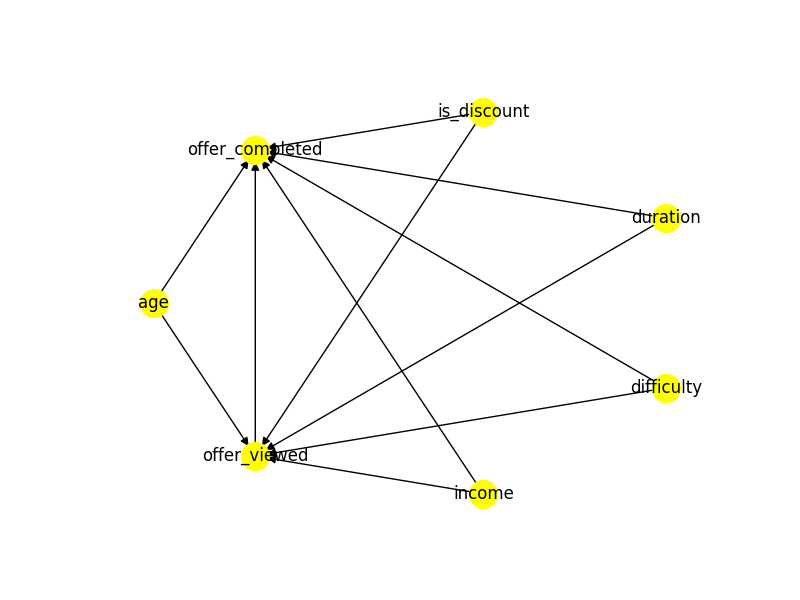
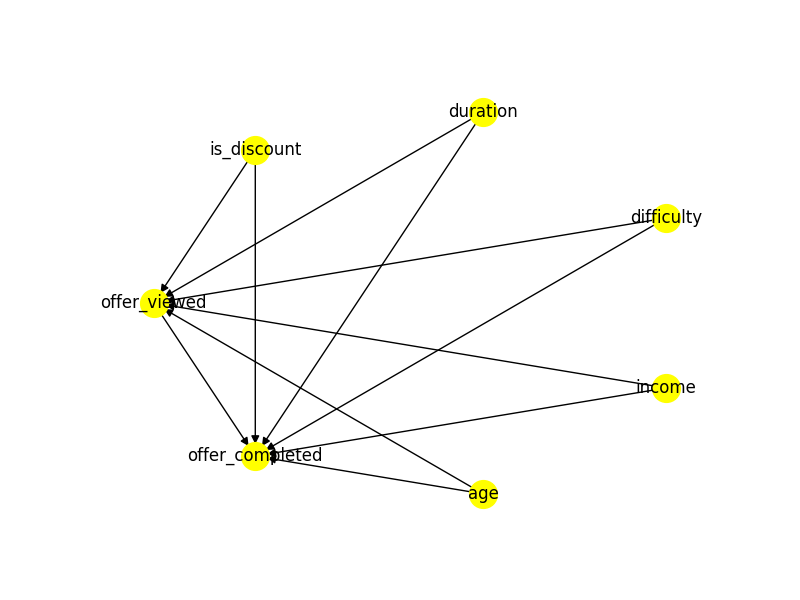
Add causal graph analysis and audit reports

diff --git a/notebooks/07_causal_graph.py b/notebooks/07_causal_graph.py
@@ -1,148 +1,228 @@
-import pandas as pd
 from pathlib import Path
+import warnings
+
+import pandas as pd
 from dowhy import CausalModel
 
-# --------------------------------------------------
-# 1. Load the prepared dataset
-# --------------------------------------------------
+warnings.filterwarnings("ignore", category=FutureWarning)
+
+# ==========================================
+# 1. PATHS
+# ==========================================
 
 BASE_DIR = Path(__file__).resolve().parent.parent
-DATA_FILE = BASE_DIR / "data" / "processed" / "causal_dataset.csv"
 
-data = pd.read_csv(DATA_FILE)
+DATA_PATH = BASE_DIR / "data" / "processed" / "causal_dataset.csv"
+FIGURES_DIR = BASE_DIR / "reports" / "figures"
+AUDIT_DIR = BASE_DIR / "reports" / "causal_audit"
 
-print("Dataset loaded:", data.shape)
+FIGURES_DIR.mkdir(parents=True, exist_ok=True)
+AUDIT_DIR.mkdir(parents=True, exist_ok=True)
 
-# --------------------------------------------------
-# 2. Select variables for causal analysis
-# --------------------------------------------------
+# ==========================================
+# 2. LOAD DATA
+# ==========================================
+
+print("Loading dataset...")
+
+if not DATA_PATH.exists():
+    raise FileNotFoundError(f"Dataset not found: {DATA_PATH}")
+
+df = pd.read_csv(DATA_PATH)
+
+print("Original dataset shape:", df.shape)
+
+# ==========================================
+# 3. PREPARE DATA
+# ==========================================
 
 required_columns = [
-    "person",
-    "offer_id",
     "offer_type",
-    "difficulty",
-    "duration",
     "offer_viewed",
     "offer_completed",
     "age",
-    "income"
+    "income",
+    "difficulty",
+    "duration",
 ]
 
-missing_columns = [
-    column for column in required_columns
-    if column not in data.columns
+missing = [col for col in required_columns if col not in df.columns]
+
+if missing:
+    raise ValueError(f"Missing columns: {missing}")
+
+# Keep BOGO and discount offers
+df = df[df["offer_type"].isin(["bogo", "discount"])].copy()
+
+# Convert required columns to numeric
+numeric_columns = [
+    "offer_viewed",
+    "offer_completed",
+    "age",
+    "income",
+    "difficulty",
+    "duration",
 ]
 
-if missing_columns:
-    raise ValueError(
-        f"Missing columns: {missing_columns}"
-    )
+for col in numeric_columns:
+    df[col] = pd.to_numeric(df[col], errors="coerce")
 
-# --------------------------------------------------
-# 3. Prepare the analysis data
-# --------------------------------------------------
+# Convert offer type to a binary variable
+df["is_discount"] = (df["offer_type"] == "discount").astype(int)
 
-analysis_data = data[
-    [
-        "offer_type",
-        "difficulty",
-        "duration",
-        "offer_viewed",
-        "offer_completed",
-        "age",
-        "income"
-    ]
+model_columns = [
+    "offer_viewed",
+    "offer_completed",
+    "age",
+    "income",
+    "difficulty",
+    "duration",
+    "is_discount",
+]
+
+df = df[model_columns].dropna()
+
+# Remove infinite values
+df = df[
+    df[model_columns].apply(
+        lambda col: col.map(lambda value: abs(value) != float("inf"))
+    ).all(axis=1)
 ].copy()
 
-# Exclude informational offers from this initial
-# reward-based completion analysis.
-analysis_data = analysis_data[
-    analysis_data["offer_type"].isin(["bogo", "discount"])
+# Validate binary variables
+df = df[
+    df["offer_viewed"].isin([0, 1])
+    & df["offer_completed"].isin([0, 1])
 ].copy()
 
-# Encode offer type as a binary variable:
-# 1 = discount, 0 = BOGO
-analysis_data["is_discount"] = (
-    analysis_data["offer_type"] == "discount"
-).astype(int)
+if df.empty:
+    raise ValueError("No valid data remains after preprocessing.")
 
-# Remove rows missing required analysis values.
-analysis_data = analysis_data.dropna(
-    subset=[
-        "difficulty",
-        "duration",
-        "offer_viewed",
-        "offer_completed",
-        "age",
-        "income"
-    ]
-)
+if df["offer_viewed"].nunique() != 2:
+    raise ValueError("offer_viewed must contain both 0 and 1.")
 
-print("Analysis dataset:", analysis_data.shape)
+print("Prepared dataset shape:", df.shape)
 
-# --------------------------------------------------
-# 4. Define the causal graph
-# --------------------------------------------------
+# ==========================================
+# 4. CREATE CAUSAL MODEL
+# ==========================================
 
-causal_graph = """
-digraph {
-    age -> offer_viewed;
-    income -> offer_viewed;
-    difficulty -> offer_viewed;
-    duration -> offer_viewed;
-    is_discount -> offer_viewed;
-
-    age -> offer_completed;
-    income -> offer_completed;
-    difficulty -> offer_completed;
-    duration -> offer_completed;
-    is_discount -> offer_completed;
-
-    offer_viewed -> offer_completed;
-}
-"""
-
-# --------------------------------------------------
-# 5. Build the DoWhy causal model
-# --------------------------------------------------
+print("\nCreating causal model...")
 
 model = CausalModel(
-    data=analysis_data,
+    data=df,
     treatment="offer_viewed",
     outcome="offer_completed",
-    graph=causal_graph
+    common_causes=[
+        "age",
+        "income",
+        "difficulty",
+        "duration",
+        "is_discount",
+    ],
 )
 
-print("\nCausal model created successfully!")
+# ==========================================
+# 5. IDENTIFY EFFECT
+# ==========================================
 
-# --------------------------------------------------
-# 6. Identify the causal effect
-# --------------------------------------------------
+print("\nIdentifying causal effect...")
 
 estimand = model.identify_effect()
-
-print("\nIdentified estimand:")
 print(estimand)
 
-# --------------------------------------------------
-# 7. Save a graph image if Graphviz is available
-# --------------------------------------------------
+# ==========================================
+# 6. ESTIMATE EFFECT
+# ==========================================
+
+print("\nEstimating causal effect...")
+
+estimate = model.estimate_effect(
+    estimand,
+    method_name="backdoor.linear_regression",
+    control_value=0,
+    treatment_value=1,
+    target_units="ate",
+)
+
+ate = float(estimate.value)
+
+print("\nEstimated Average Treatment Effect:", round(ate, 6))
+
+# Save estimate
+summary = pd.DataFrame([{
+    "treatment": "offer_viewed",
+    "outcome": "offer_completed",
+    "estimated_ate": ate,
+    "sample_size": len(df),
+}])
+
+summary.to_csv(
+    AUDIT_DIR / "causal_effect_summary.csv",
+    index=False,
+)
+
+# ==========================================
+# 7. SAVE CAUSAL GRAPH
+# ==========================================
+
+print("\nGenerating causal graph...")
 
 try:
     model.view_model(
         layout="dot",
-        file_name=str(BASE_DIR / "reports" / "figures" / "causal_graph")
+        file_name=str(FIGURES_DIR / "causal_graph"),
     )
-    print("\nCausal graph saved.")
+    print("Causal graph saved.")
+
 except Exception as error:
-    print("\nCould not render graph automatically:", error)
-    print("The graph definition is still available in this script.")
-# Step 3: Estimate the causal effect
-causal_estimate = model.estimate_effect(
-    estimand,
-    method_name="backdoor.linear_regression"
+    print("Graph generation failed:", error)
+
+# ==========================================
+# 8. SAVE DATA QUALITY SUMMARY
+# ==========================================
+
+quality_summary = pd.DataFrame({
+    "metric": [
+        "rows_used",
+        "viewed_offers",
+        "not_viewed_offers",
+        "completed_offers",
+        "not_completed_offers",
+        "completed_without_viewing",
+    ],
+    "value": [
+        len(df),
+        int((df["offer_viewed"] == 1).sum()),
+        int((df["offer_viewed"] == 0).sum()),
+        int((df["offer_completed"] == 1).sum()),
+        int((df["offer_completed"] == 0).sum()),
+        int(
+            (
+                (df["offer_viewed"] == 0)
+                & (df["offer_completed"] == 1)
+            ).sum()
+        ),
+    ],
+})
+
+quality_summary.to_csv(
+    AUDIT_DIR / "data_quality_summary.csv",
+    index=False,
 )
 
-print("\nEstimated Causal Effect:")
-print(causal_estimate)
+# ==========================================
+# 9. FINISHED
+# ==========================================
+
+print("\n" + "=" * 45)
+print("CAUSAL ANALYSIS COMPLETED")
+print("=" * 45)
+
+print("Rows analyzed:", len(df))
+print("Estimated ATE:", round(ate, 6))
+
+print("\nFiles saved:")
+print(AUDIT_DIR / "causal_effect_summary.csv")
+print(AUDIT_DIR / "data_quality_summary.csv")
+print(FIGURES_DIR / "causal_graph")
